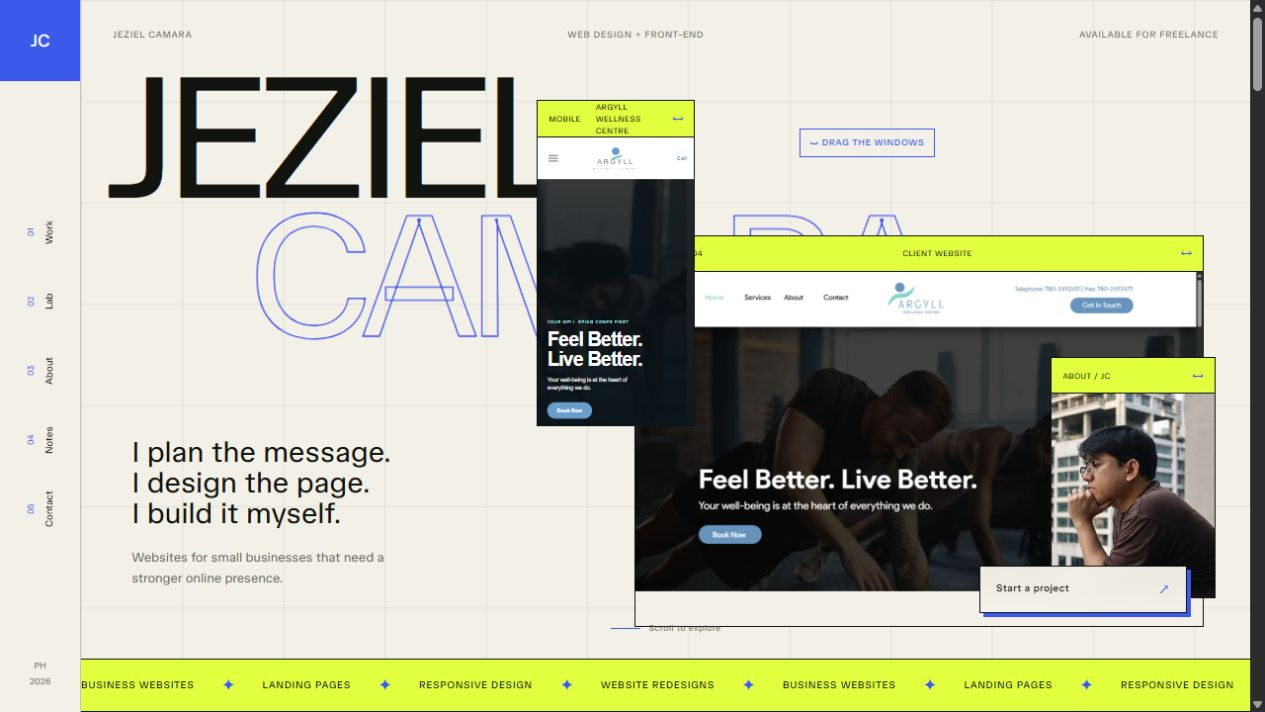
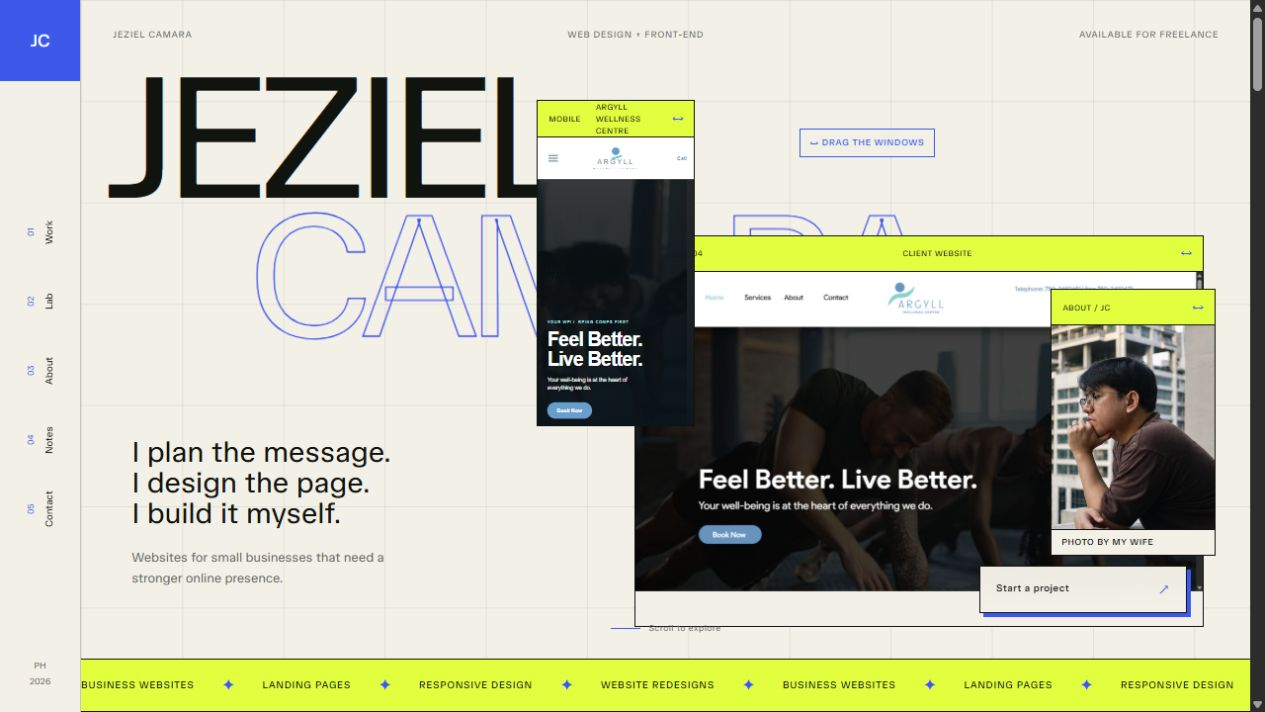
Add portrait photo credits (#16)

Changed region(s): [[0.8324, 0.4017, 0.9866, 0.8652]]

diff --git a/css/portfolio-clarity.css b/css/portfolio-clarity.css
@@ -57,10 +57,60 @@ main p,
 .about-photo-image {
   display: block;
   width: 100%;
-  height: 100%;
-  min-height: inherit;
+  height: 0;
+  min-height: 0;
+  flex: 1 1 0;
   object-fit: cover;
   object-position: 54% center;
+}
+
+.photo-credit {
+  box-sizing: border-box;
+  width: 100%;
+  margin: 0;
+  color: var(--ink);
+  background: var(--paper);
+  border-top: 1px solid var(--ink);
+  font-size: .55rem;
+  font-weight: 500;
+  letter-spacing: .08em;
+  line-height: 1;
+  text-transform: uppercase;
+}
+
+.photo-credit--hero {
+  padding: 8px 10px;
+}
+
+.window-portrait {
+  bottom: 22%;
+}
+
+.about-photo {
+  height: 610px;
+  min-height: 610px;
+  flex-direction: column;
+  align-items: stretch;
+}
+
+.photo-credit--about {
+  flex: 0 0 auto;
+  padding: 11px 13px;
+  text-align: right;
+}
+
+@media (max-width: 950px) {
+  .about-photo {
+    height: 500px;
+    min-height: 500px;
+  }
+}
+
+@media (max-width: 680px) {
+  .about-photo {
+    height: 440px;
+    min-height: 440px;
+  }
 }
 
 .notes-heading {

diff --git a/index.html b/index.html
@@ -189,7 +189,7 @@
 
   <link
     rel="stylesheet"
-    href="css/portfolio-clarity.css?v=20260816-3"
+    href="css/portfolio-clarity.css?v=20260816-4"
   >
 
 </head>
@@ -502,6 +502,10 @@
           height="772"
           decoding="async"
         >
+
+        <p class="photo-credit photo-credit--hero">
+          Photo by my wife
+        </p>
 
 
       </div>
@@ -978,6 +982,10 @@
           loading="lazy"
           decoding="async"
         >
+
+        <p class="photo-credit photo-credit--about">
+          Photo by my wife
+        </p>
 
       </div>
 
